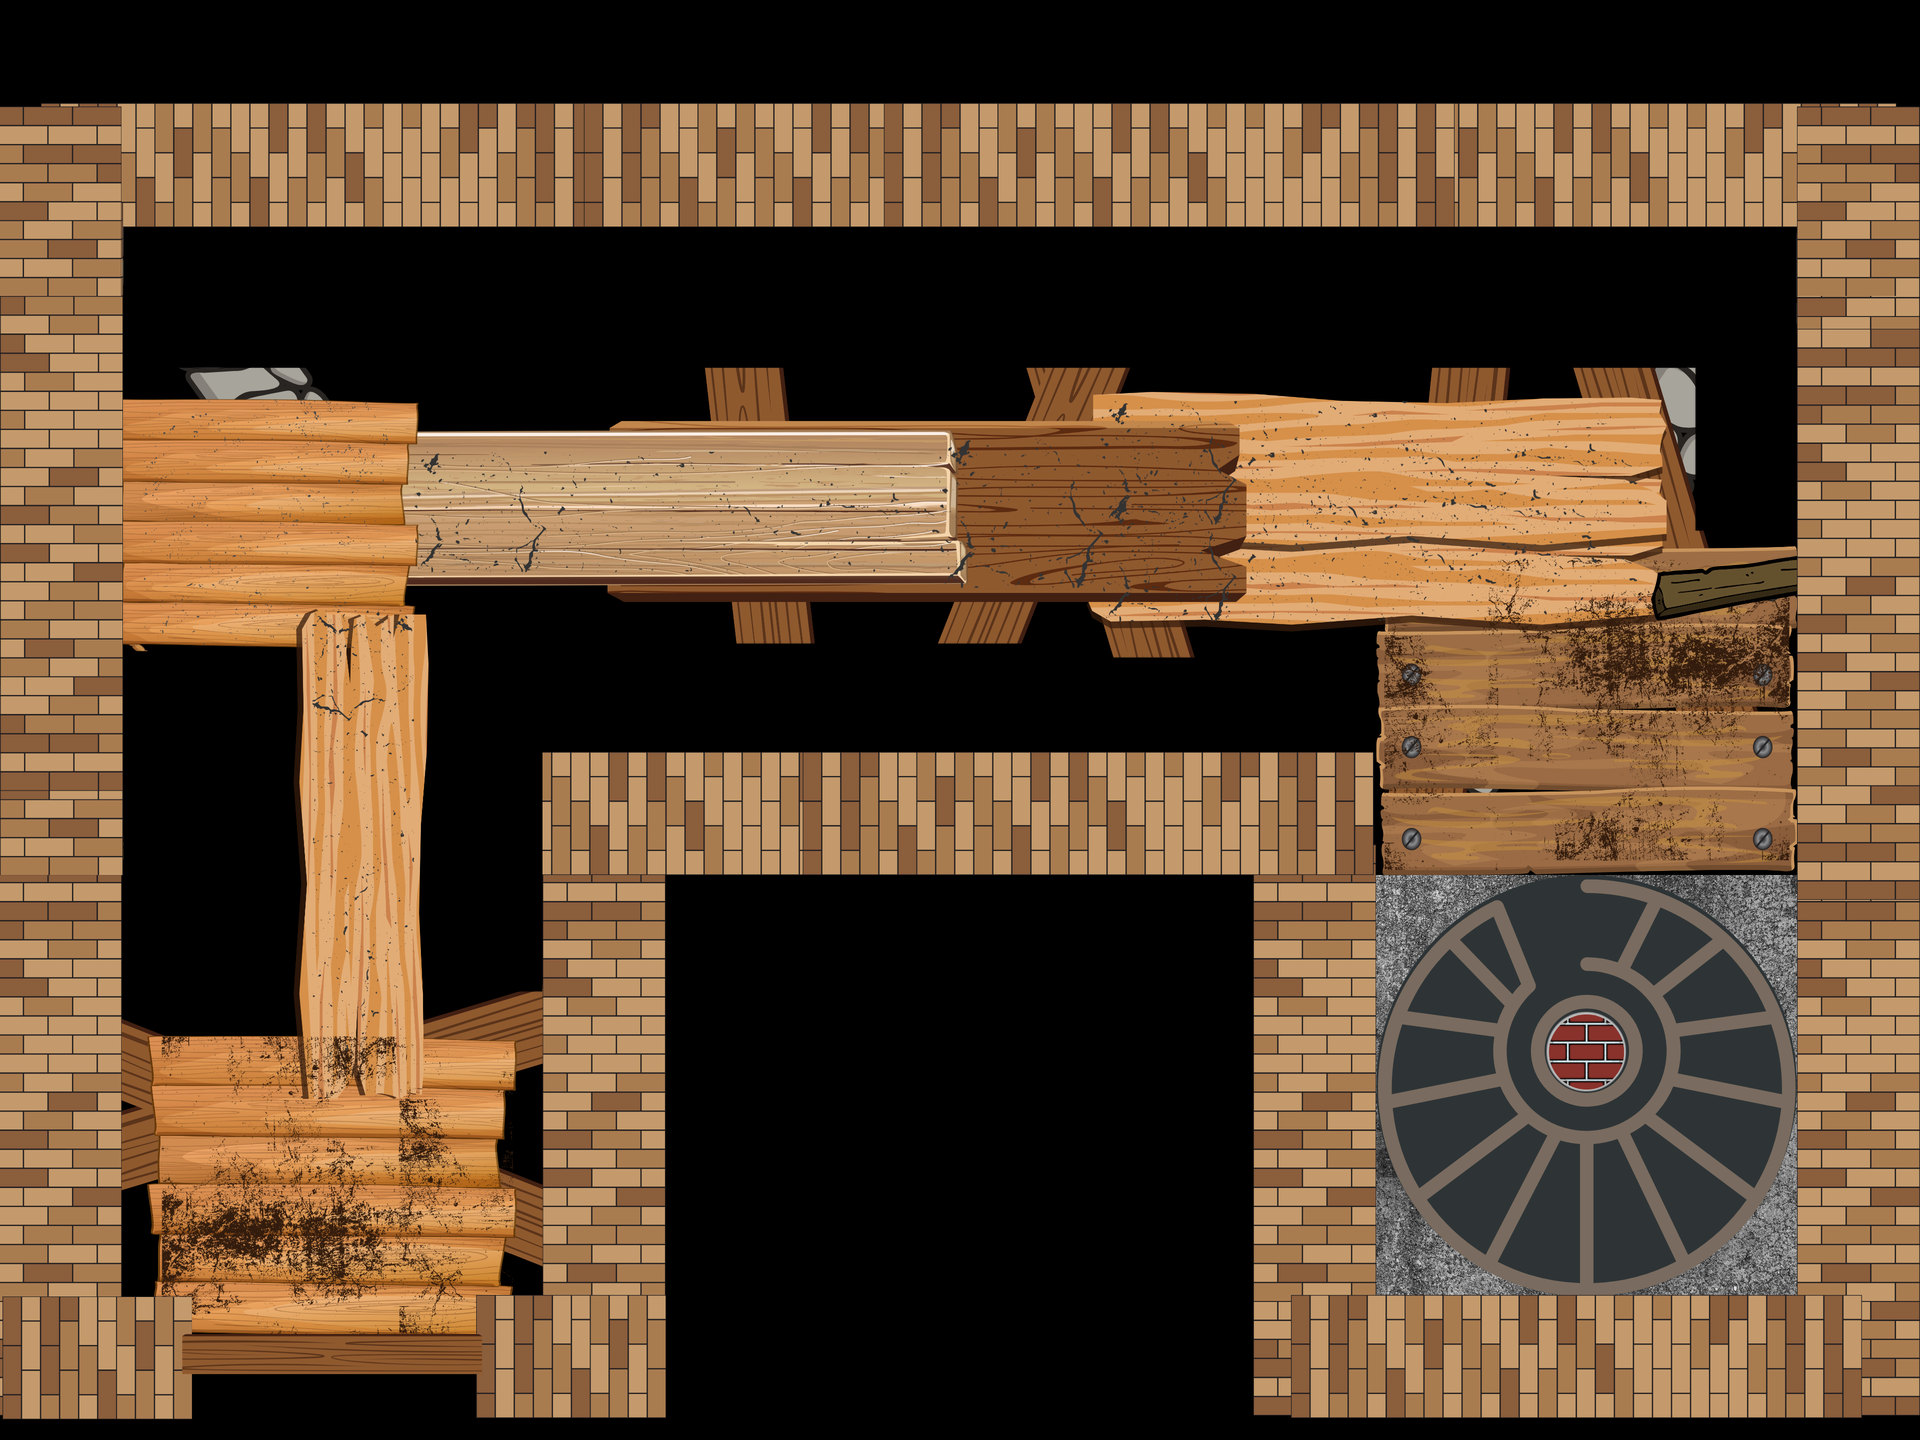
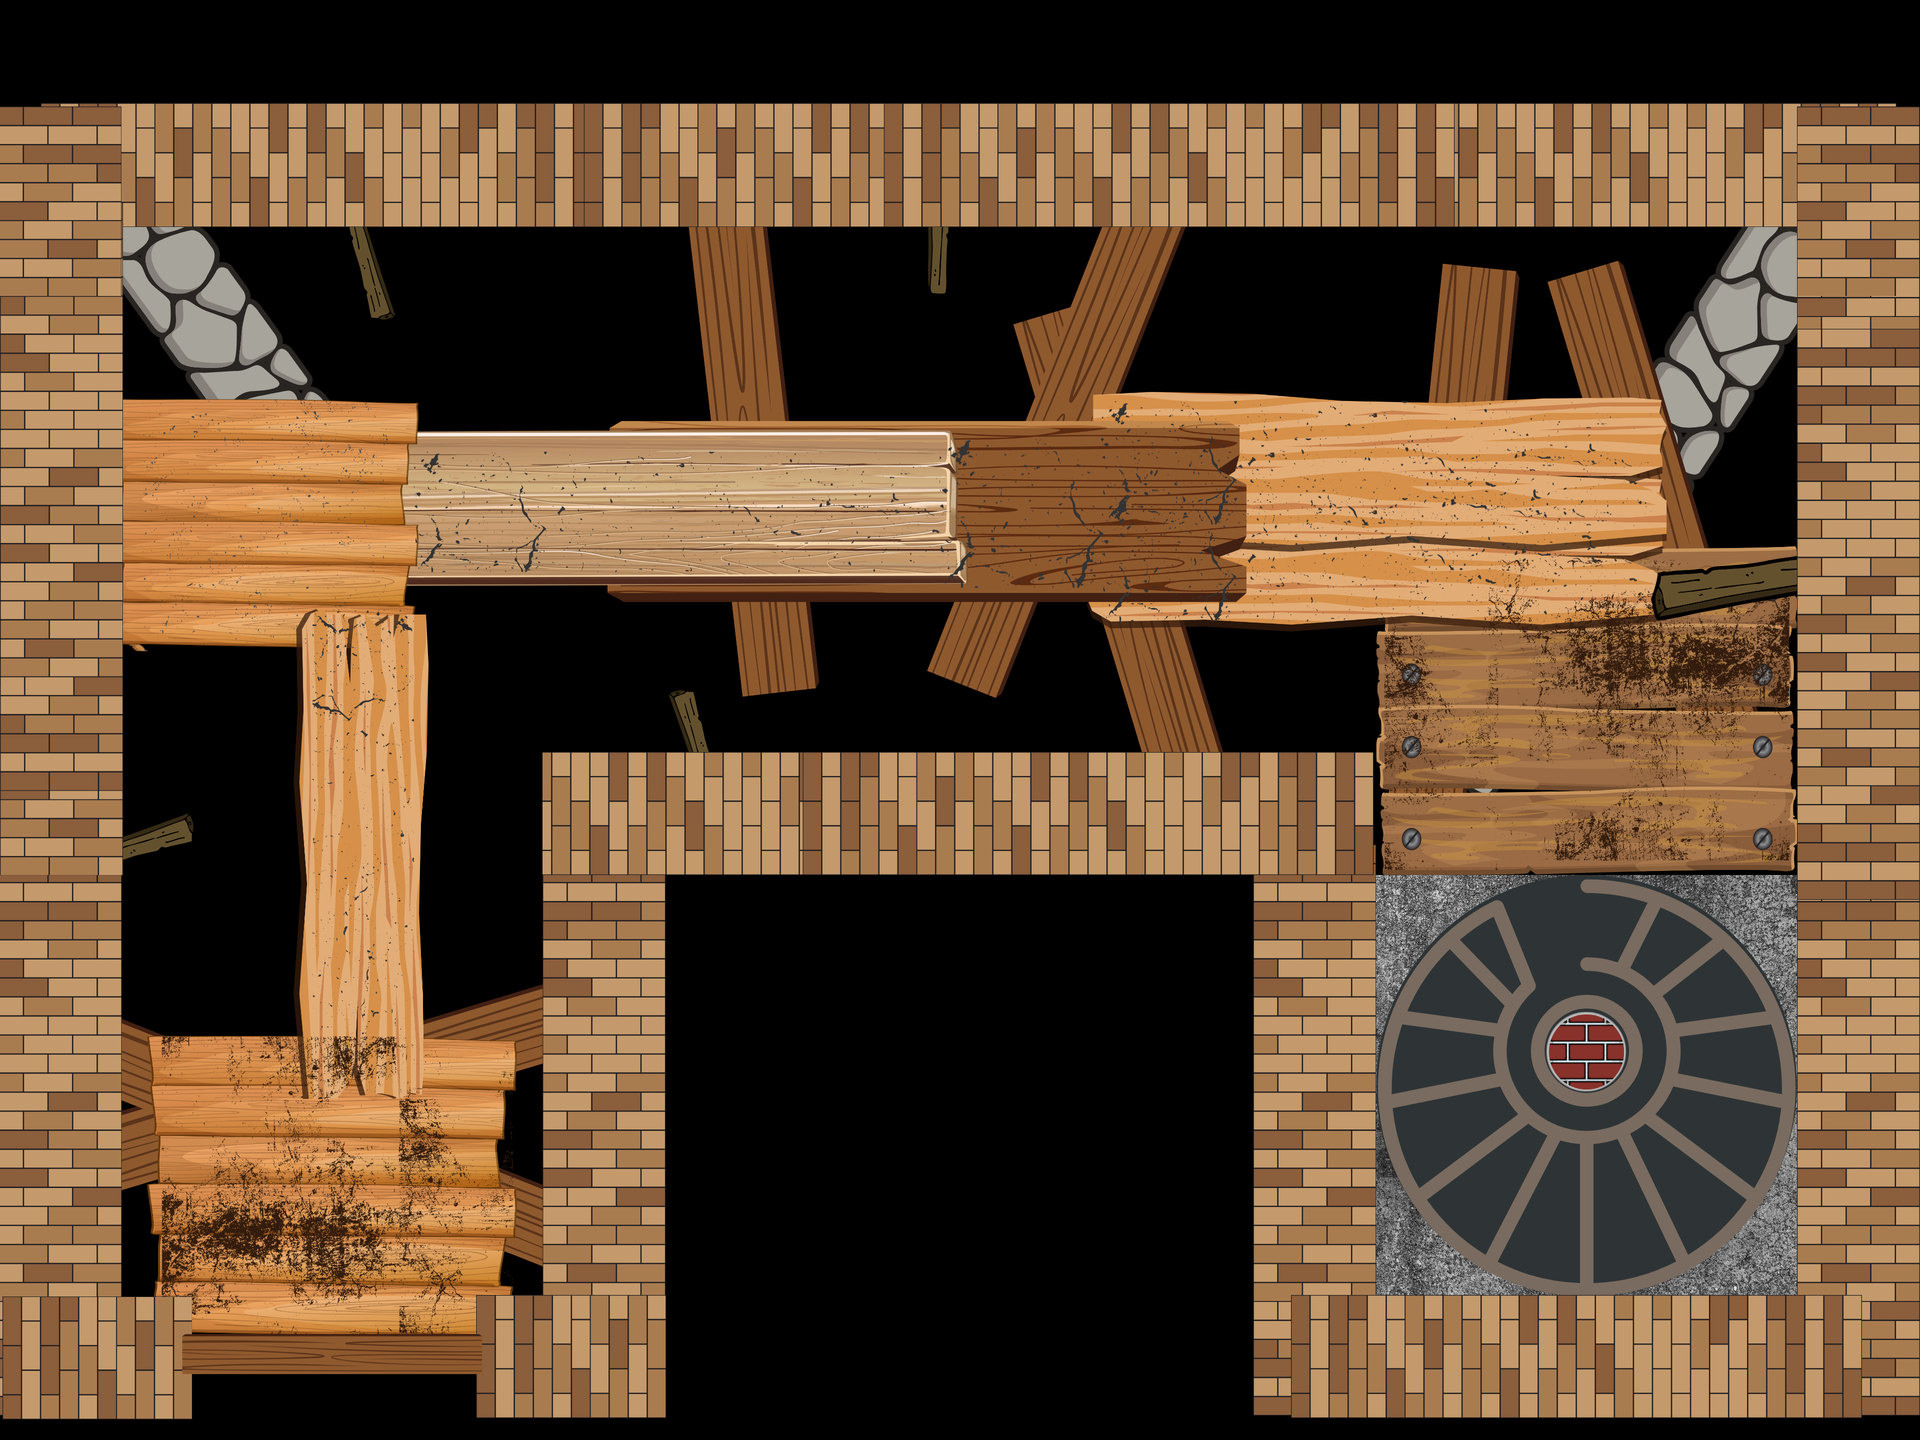
Passerella della torre: il vuoto sotto lo sfondo
Claude-Session: https://claude.ai/code/session_01DCoAoqz3TR9KuqDW3sa7M8

diff --git a/js/gioco.js b/js/gioco.js
@@ -60,7 +60,7 @@
     });
   }
   const pronte = [];
-  for (const n of Object.keys(STANZE)) if (n !== "21") pronte.push(carica("stanza" + n, `assets/img/stanze/${n}.jpg?v=3`));
+  for (const n of Object.keys(STANZE)) if (n !== "21") pronte.push(carica("stanza" + n, `assets/img/stanze/${n}.jpg?v=4`));
   img.stanza21 = img.stanza0;
   for (const n of ["copertina", "casa", "casa-fantasmi"]) pronte.push(carica(n, `assets/img/${n}.jpg?v=${n === "copertina" ? 3 : 2}`));
   for (const n of ["ragazzo-fermo", "ragazzo-passo1", "ragazzo-passo2", "ragazzo-torcia-fermo", "ragazzo-torcia-passo1", "ragazzo-torcia-passo2",

diff --git a/index.html b/index.html
@@ -131,6 +131,6 @@
   <script src="js/stanze.js?v=5"></script>
   <script src="js/maschere.js?v=4"></script>
   <script src="js/traduzioni.js?v=3"></script>
-  <script src="js/gioco.js?v=20"></script>
+  <script src="js/gioco.js?v=21"></script>
 </body>
 </html>

diff --git a/strumenti/estrai.py b/strumenti/estrai.py
@@ -156,6 +156,9 @@ def riquadro(im, soglia=40):
 # Ogni stanza è fatta di livelli sovrapposti: sfondo, poi il vuoto (se c'è),
 # poi gli ostacoli (muri e mobili). Dal progetto Scratch si prendono i costumi
 # corrispondenti; con la cartella Canva gli stessi livelli in alta risoluzione.
+VUOTO_SOTTO = {15}
+
+
 def componi(livelli):
     tela = Image.new("RGBA", livelli[0].size, (0, 0, 0, 0))
     for im in livelli:
@@ -249,7 +252,8 @@ def main():
         if n != 21:
             livelli = [("sfondo", sulla_scena("Sfondo", sf))]
             if vuoto:
-                livelli.append(("vuoto", sulla_scena("Vuoto", vuoto)))
+                # nella passerella della torre il vuoto sta sotto lo sfondo, che ha le assi sopra il baratro
+                livelli.insert(0 if n in VUOTO_SOTTO else 1, ("vuoto", sulla_scena("Vuoto", vuoto)))
             livelli.append(("ostacoli", ostacoli))
             basso = [im for _, im in livelli]
             hd = [alta_risoluzione(FILE_HD[n].replace(" sfondo", " " + tipo), im) for tipo, im in livelli]
